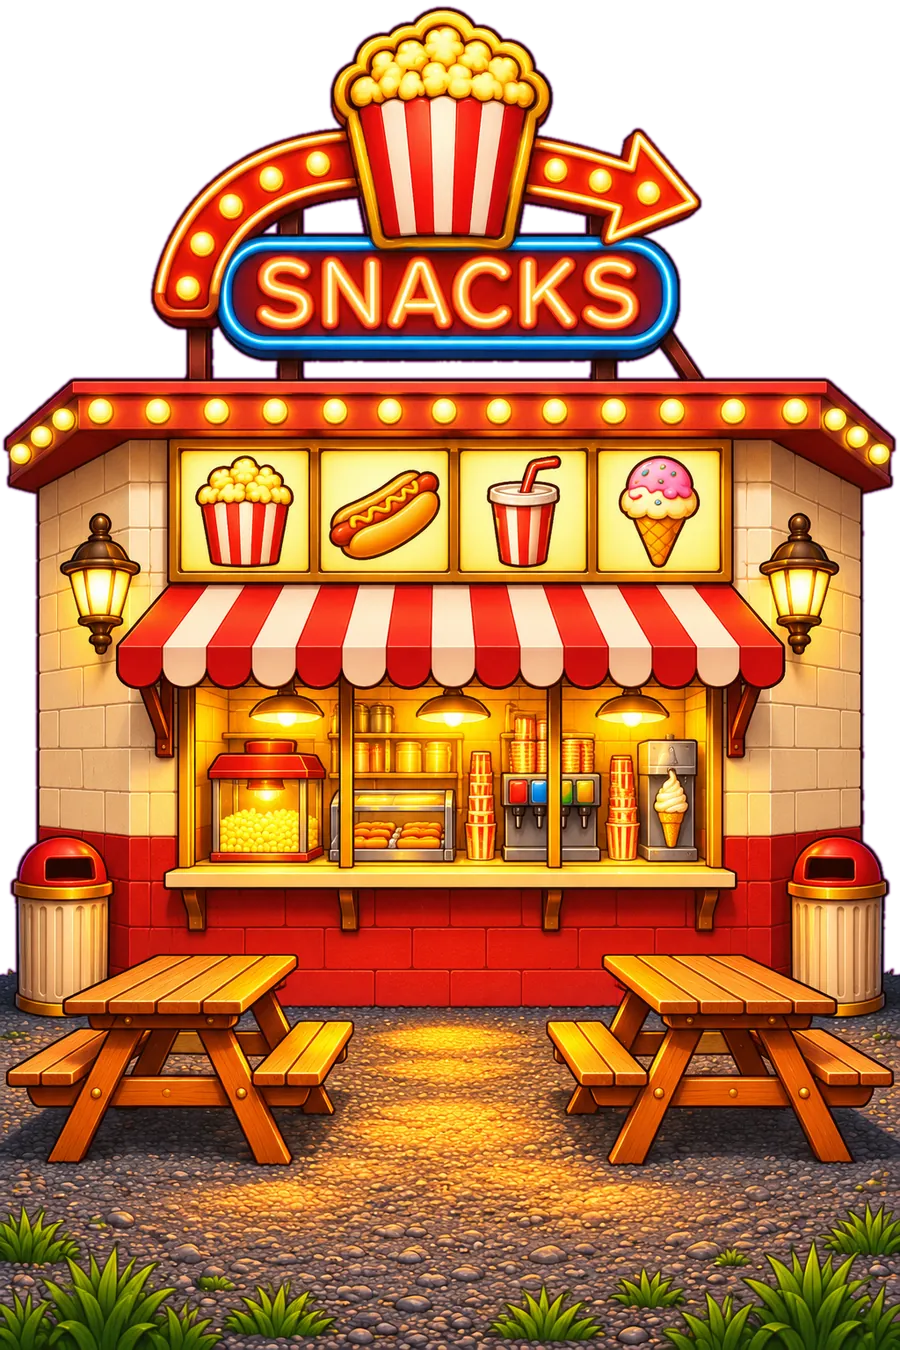
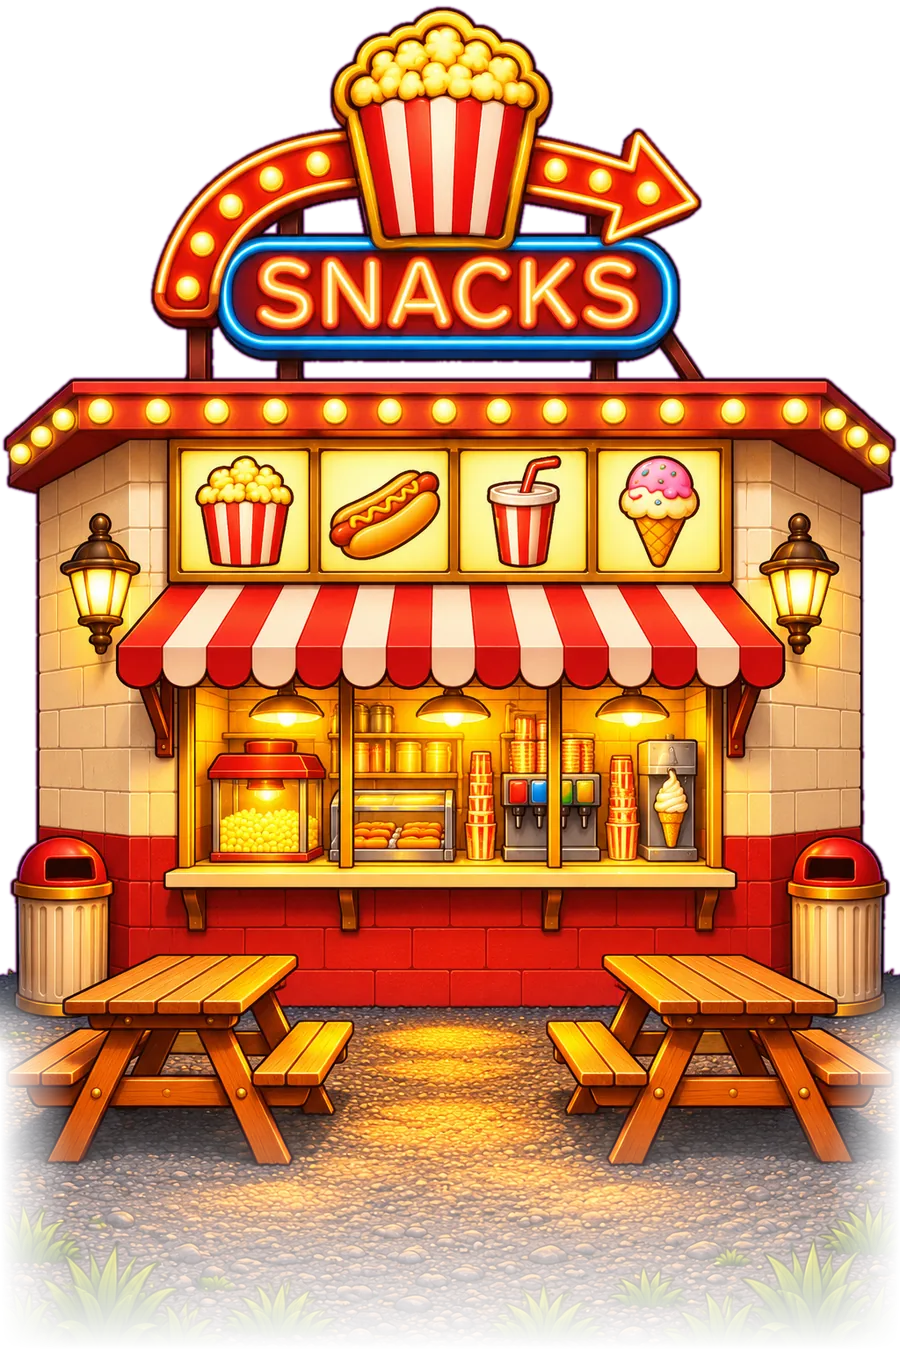
Drive-In Theater reveal scene: night lot with cars in two rows, vampire movie screen, snack stand, twinkling stars and fireflies; 14 movie-night retro objects reveal here
Claude-Session: https://claude.ai/code/session_01LfmF5cxUUBcpb9MQqZTHNz

Changed region(s): [[0.0, 0.7156, 1.0, 1.0]]

diff --git a/scripts/cut-new-scenes.py b/scripts/cut-new-scenes.py
@@ -67,18 +67,43 @@ def frames(file, names, w=480):
         for c in cs:
             if k < len(names):
                 f = im.crop((c[0] + 2, r[0] + 2, c[1] - 2, r[1] - 2)); save(fit_w(f, w), names[k]); k += 1
-def tall(file, name, key, w=900):
+def apron_fade(im, from_row=.72, bottom=.18, side=.08):
+    """Soften the gravel or grass apron around a building so it melts into the lot instead of ending in a hard box."""
+    a = np.array(im).astype(float); h, w = a.shape[:2]
+    y = np.arange(h)[:, None] / h; x = np.arange(w)[None, :] / w
+    fade_b = np.clip((1 - y) / bottom, 0, 1)                                  # bottom rows fade out
+    fade_s = np.clip(np.minimum(x, 1 - x) / side, 0, 1)                        # side edges fade, only in the apron zone
+    zone = np.clip((y - from_row) / .06, 0, 1)
+    a[..., 3] *= np.minimum(1, fade_b + (1 - zone)) * (1 - zone + zone * fade_s)
+    return Image.fromarray(a.clip(0, 255).astype("uint8"), "RGBA")
+def tall(file, name, key, w=900, apron=False):
     im = Image.open(src / file)
     im = key_out(im) if key else im.convert("RGB")
+    if apron: im = apron_fade(im)
     save(fit_w(im, w), name)
+def sky_cut(file, name, w=900, tol=11, feather=14):
+    """A backdrop whose plain sky is removed (transparent) so the scene's own stars, clouds and fireflies show behind the skyline."""
+    from PIL import ImageFilter
+    im = Image.open(src / file).convert("RGB"); a = np.array(im).astype(int); h, wd, _ = a.shape
+    sky = np.zeros((h, wd), bool); live = np.ones(wd, bool)
+    for y in range(1, h):
+        d = np.abs(a[y] - a[y - 1]).sum(axis=1)
+        live &= d < tol
+        sky[y] = live
+    sky[0] = True
+    m = Image.fromarray(np.where(sky, 0, 255).astype("uint8")).filter(ImageFilter.MinFilter(3)).filter(ImageFilter.GaussianBlur(1.2))
+    out_im = im.convert("RGBA"); out_im.putalpha(m)
+    # fade the skyline a little so no hard sky-coloured fringe shows
+    bb = out_im.getchannel("A").getbbox(); out_im = out_im.crop((0, max(0, bb[1] - 4), wd, h))
+    save(fit_w(out_im, w), name)
 def ground(file, name, w=1500):
     im = Image.open(src / file).convert("RGB"); im = seamless(im, round(im.width * .08)); save(fit_w(im, w), name)
 # --- drive-in
 ground("drivein-01-ground.png", "drivein-ground")
 sheet("drivein-02-cars.png", 3, 2, [f"drivein-car-{i}" for i in range(6)])
 tall("drivein-03-screen.png", "drivein-screen", True)
-tall("drivein-04-snack-stand.png", "drivein-snack-stand", True)
-tall("drivein-05-backdrop.png", "drivein-backdrop", False)
+tall("drivein-04-snack-stand.png", "drivein-snack-stand", True, apron=True)
+sky_cut("drivein-05-backdrop.png", "drivein-backdrop")
 frames("drivein-06-movie-frames.png", [f"drivein-movie-{i}" for i in range(6)])
 sheet("drivein-07-snack-animation.png", 4, 2, ["drivein-neon-on", "drivein-neon-off", "drivein-bulbs-a", "drivein-bulbs-b", "drivein-pop-0", "drivein-pop-1", "drivein-pop-2", "drivein-window-glow"], 300)
 # --- food trucks
